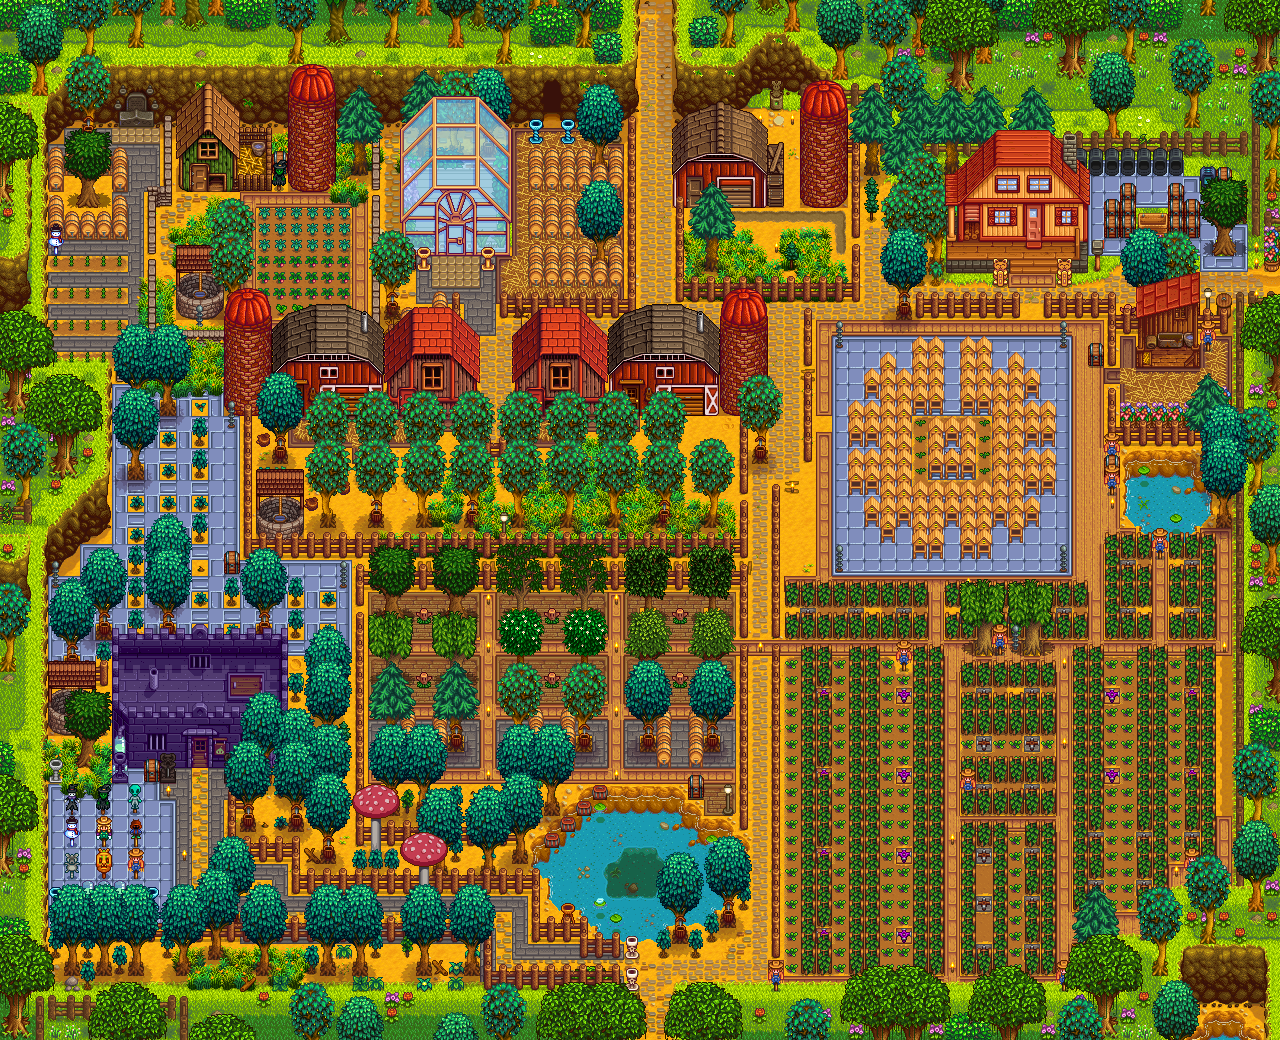
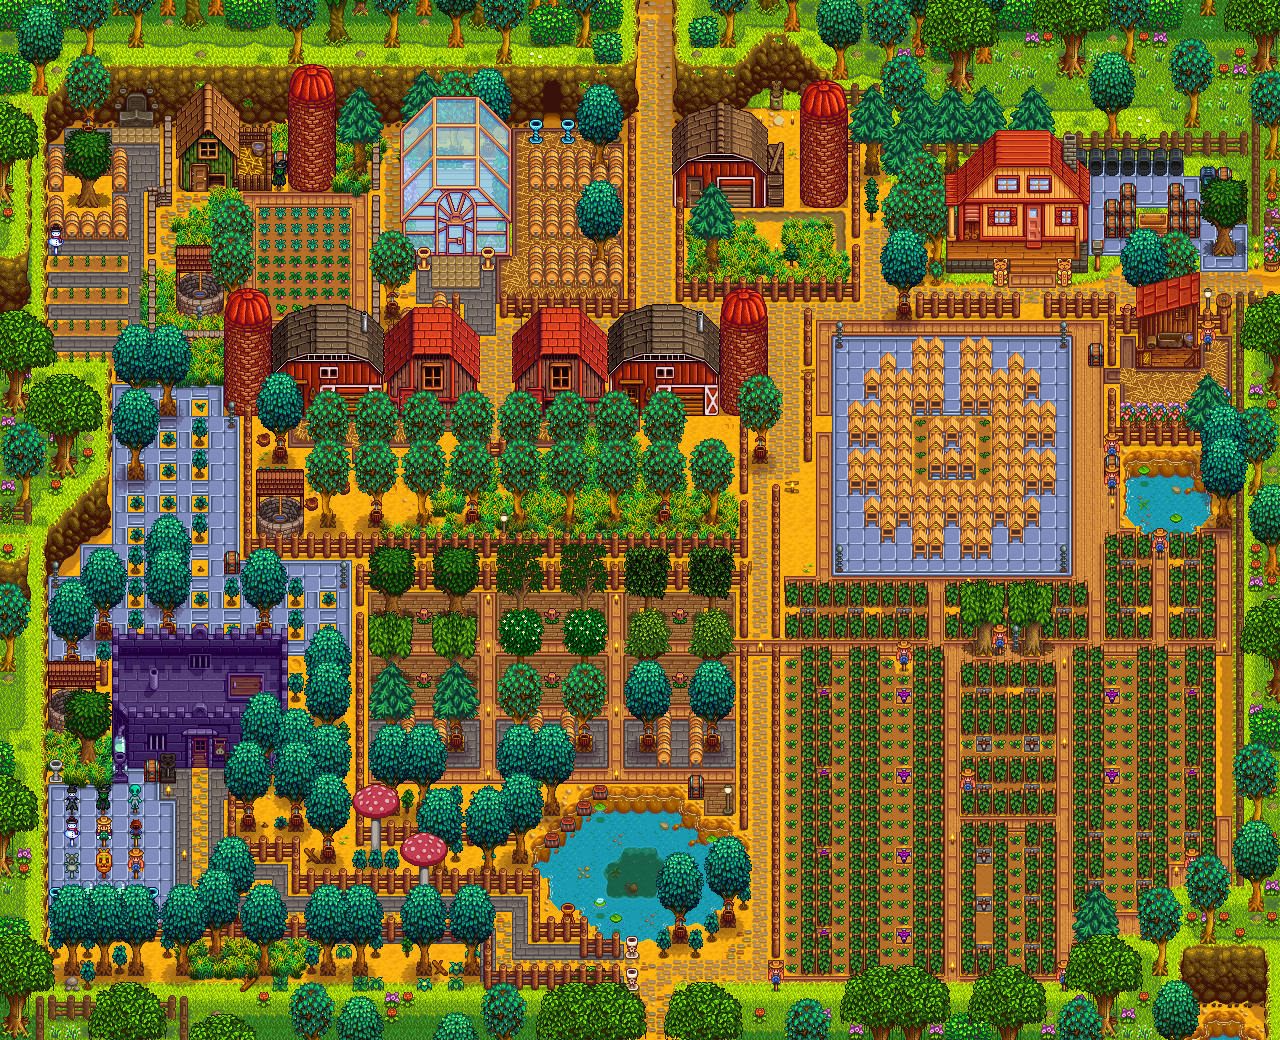
Tune the grass offset, especially in the Y axis

diff --git a/view/draw_grass.go b/view/draw_grass.go
@@ -76,9 +76,11 @@ func drawGrass(pm *parser.Map, season string, item *parser.TerrainItem, img draw
 		}
 
 		sr := grassRect(weed*15, item.Value.TerrainFeature.GrassType, season)
-		r := sr.Sub(sr.Min).Add(image.Point{item.Key.Vector2.X*m.TileWidth + int(float32((i%2)*m.TileWidth)/2+(float32(offsetWeeds[i][2])-6.5)),
-			item.Key.Vector2.Y*m.TileHeight - i/2*m.TileHeight/2 + offsetWeeds[i][3] + 10.,
-		})
+		r := sr.Sub(sr.Min).Add(
+			image.Point{
+				item.Key.Vector2.X*m.TileWidth + int(float32((i%2)*m.TileWidth)/2+(float32(offsetWeeds[i][2]-4))),
+				item.Key.Vector2.Y*m.TileHeight - i/2*m.TileHeight/2 + offsetWeeds[i][3],
+			})
 		sb.Draw(img, r, cropAndMaybeFlip(flipWeed[i], src, sr), image.ZP, grassLayer)
 	}
 }
